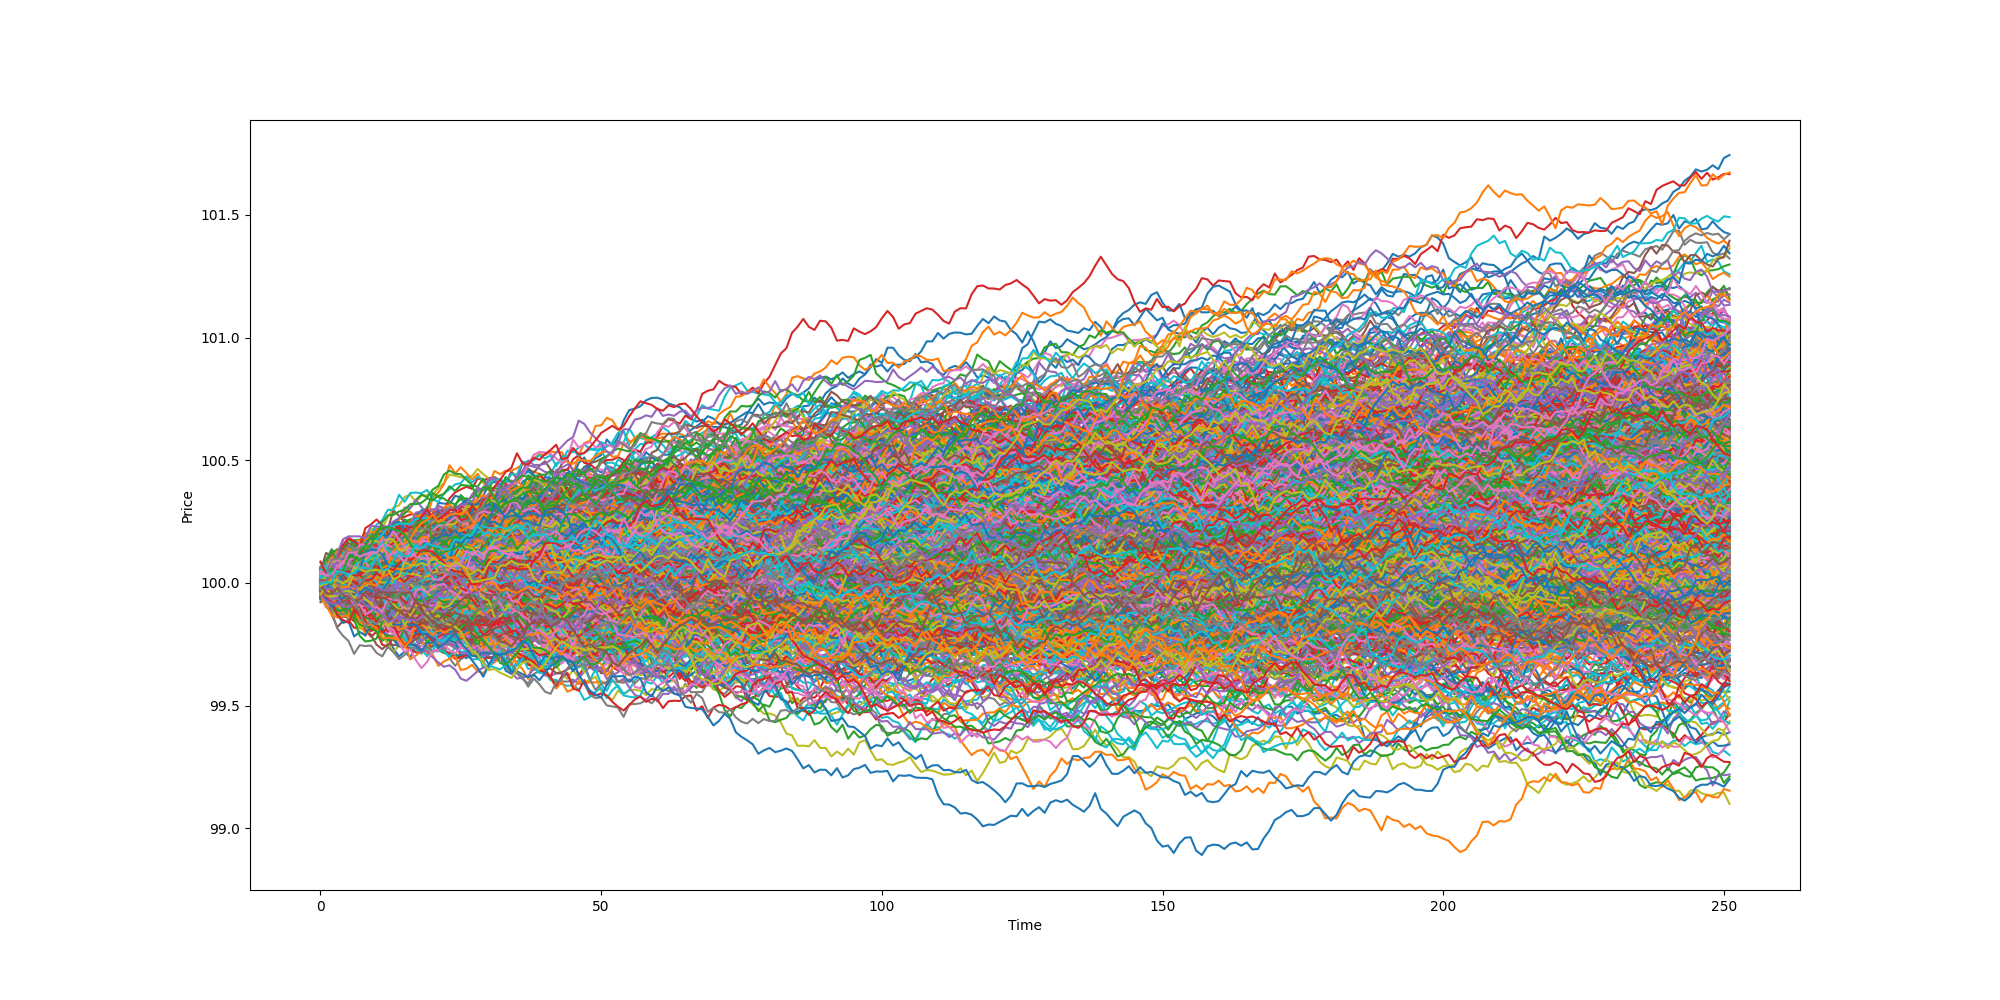
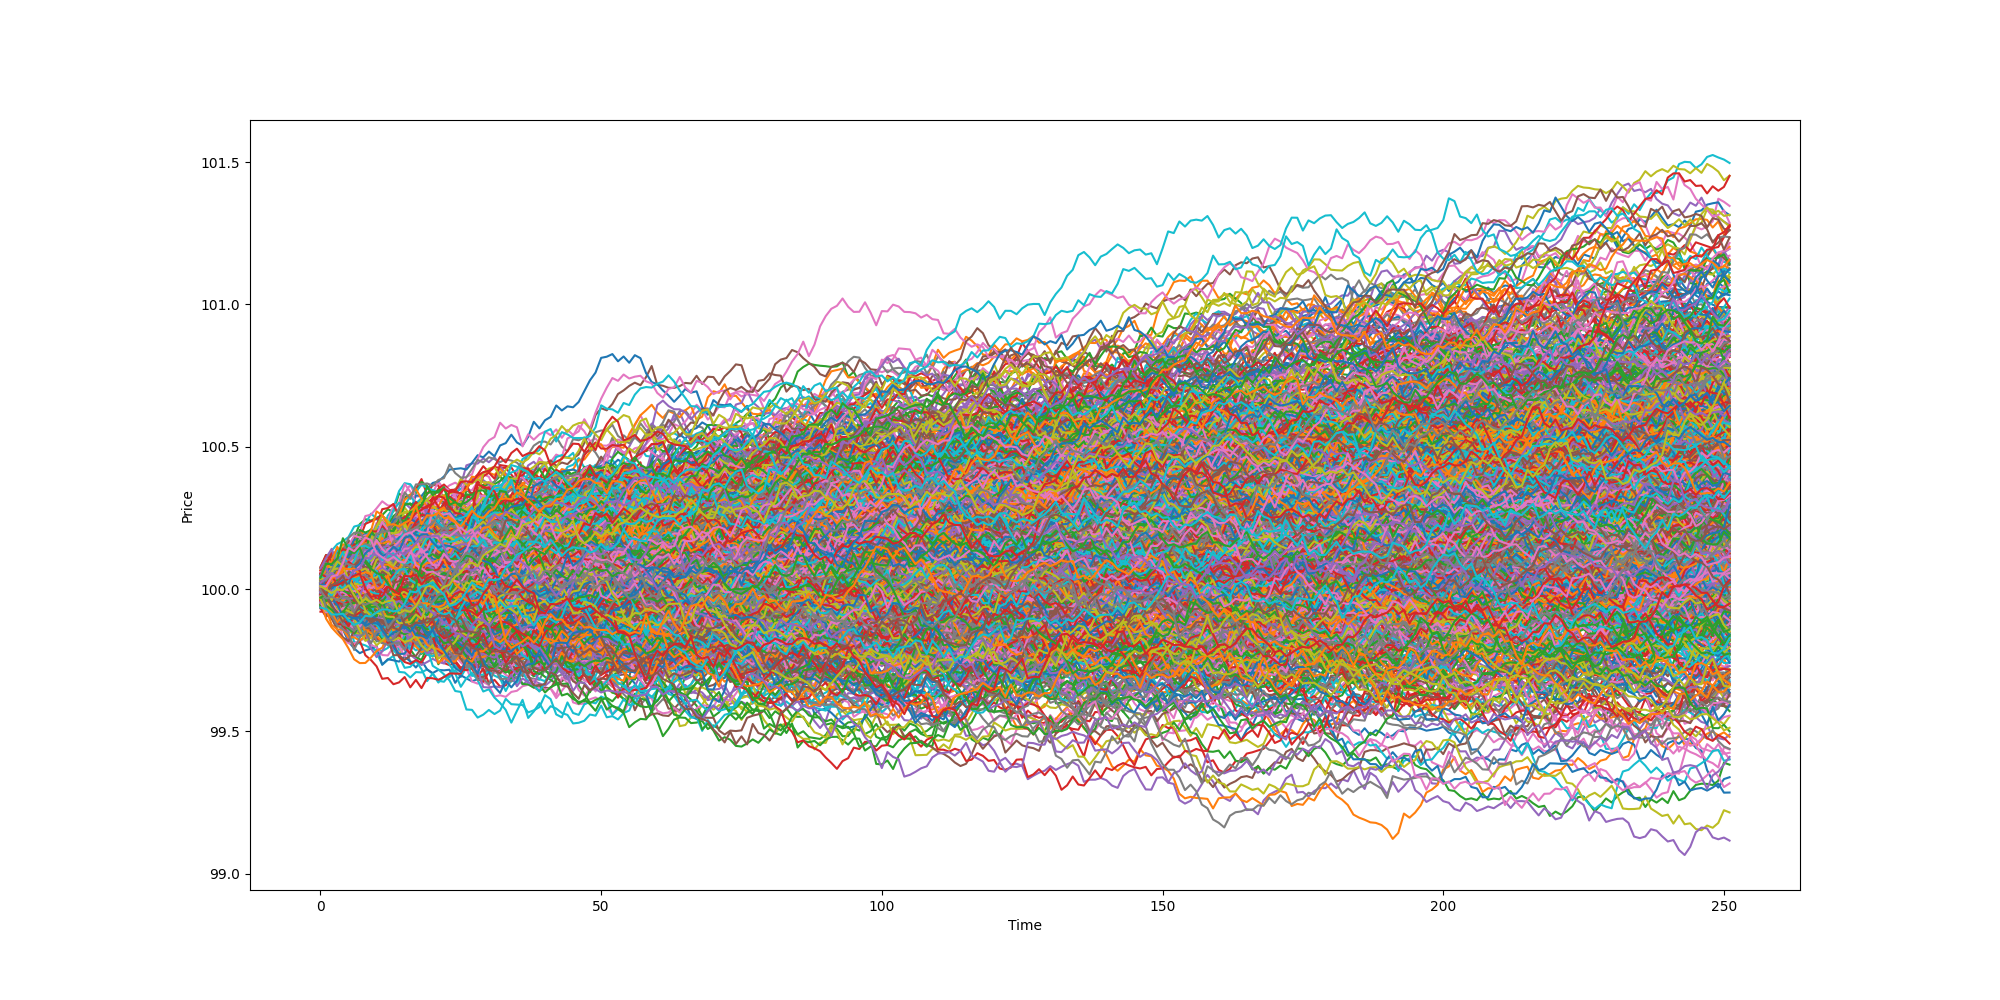
added README.md

diff --git a/README.md b/README.md
@@ -1,0 +1,4 @@
+This repo includes:
+
+-monte carlo simulation of stock price
+-geometric brownian motion of a stock price
